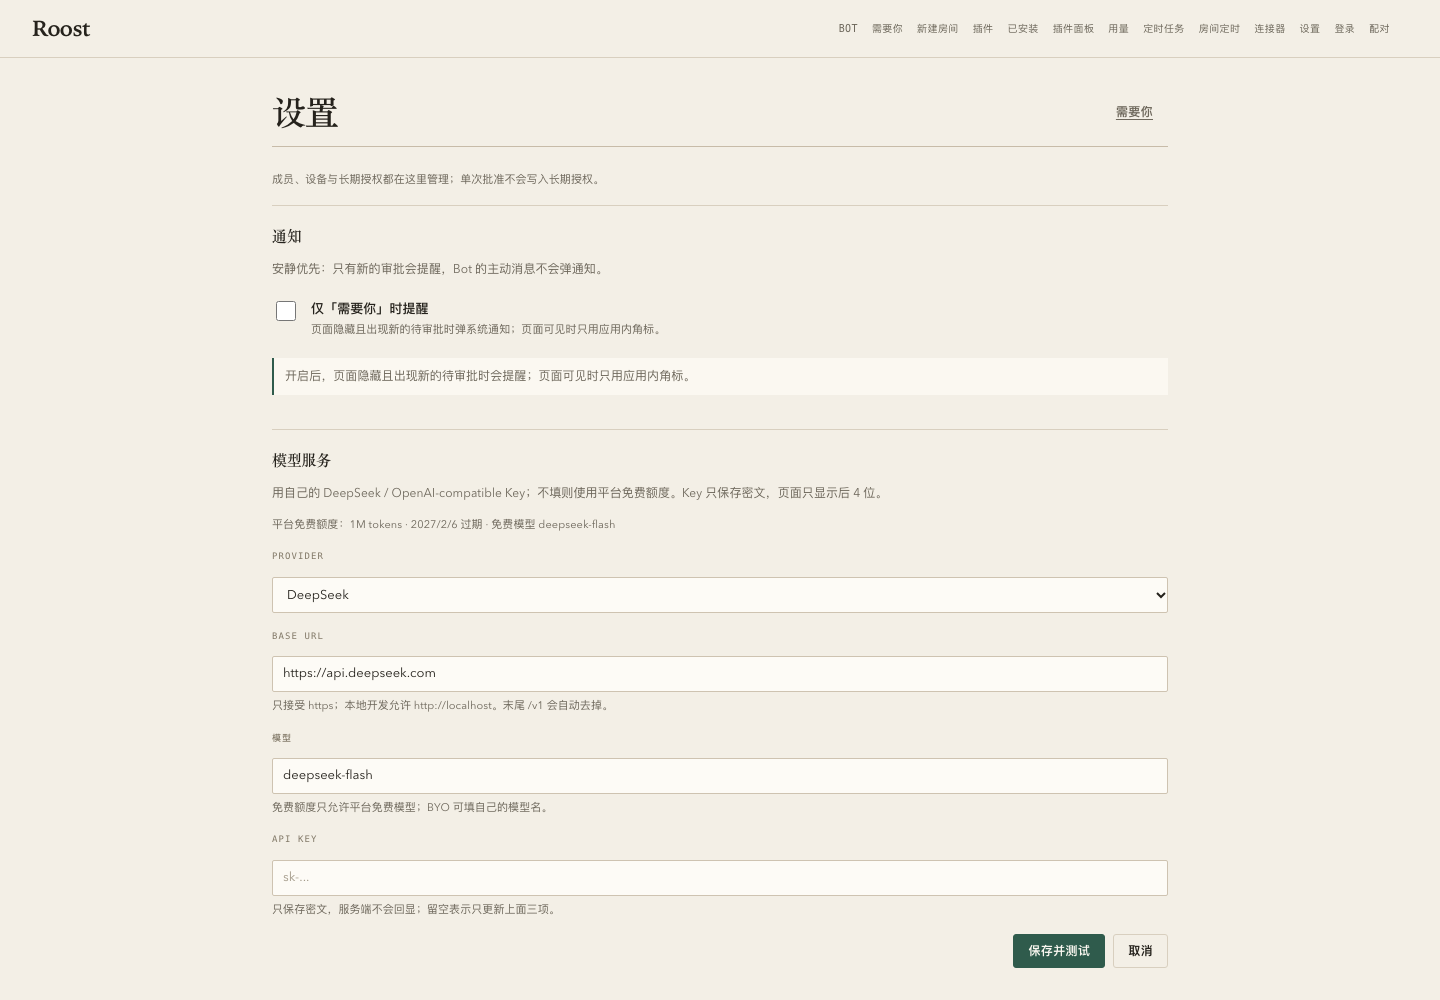
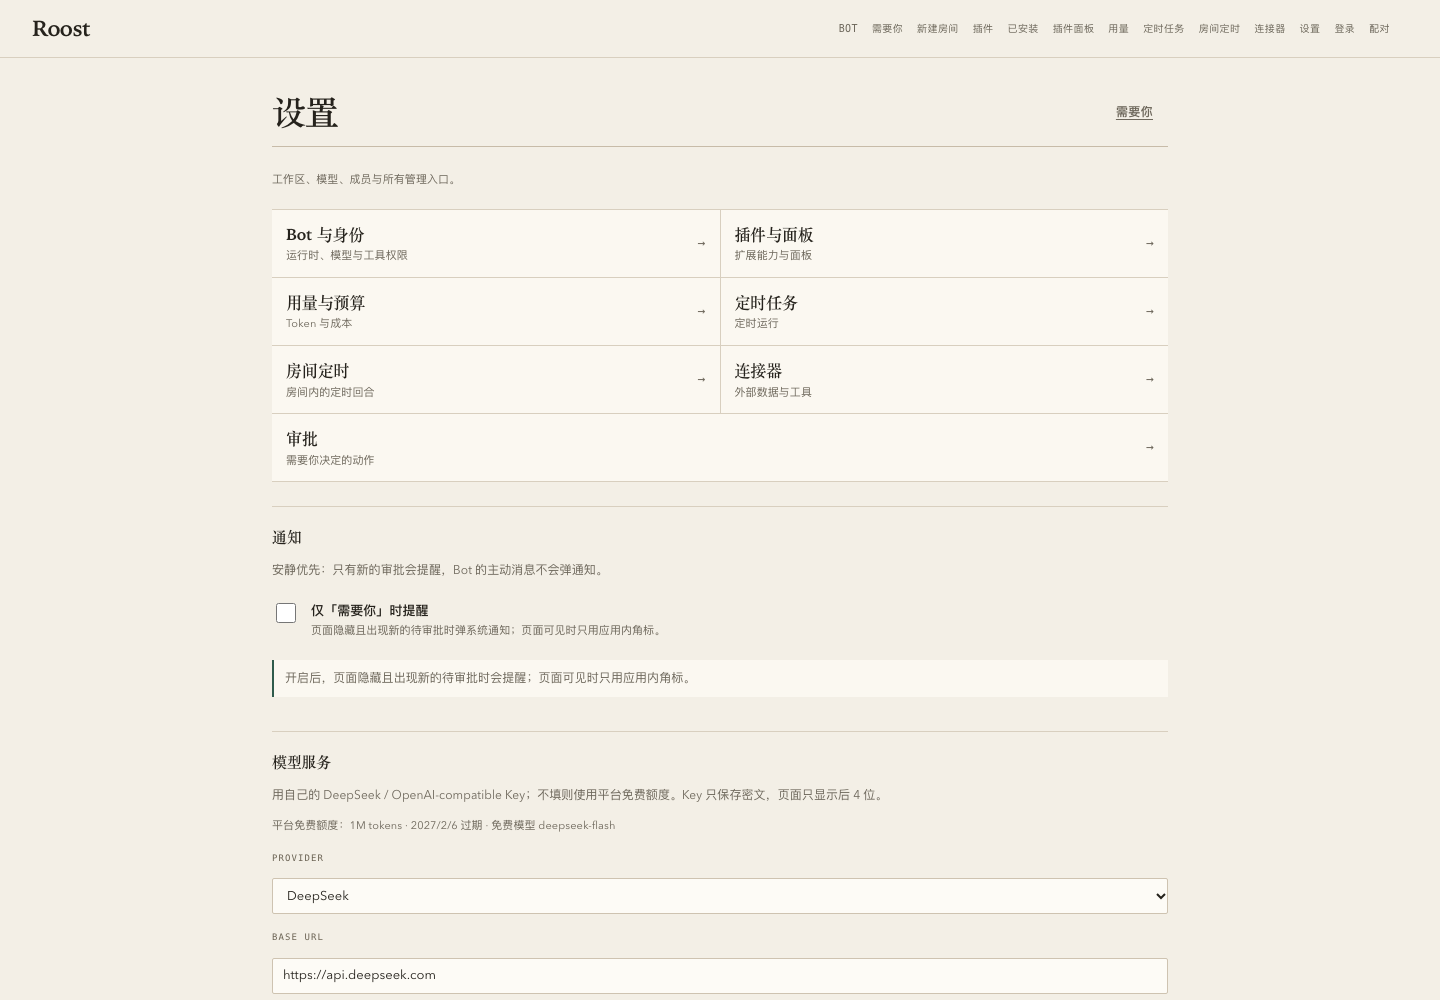
feat(web): move management into settings and simplify the rail

diff --git a/apps/web/styles-desk.css b/apps/web/styles-desk.css
@@ -2313,3 +2313,110 @@ td.num,
   --radius-card: 3px;
   --radius-pill: 999px;
 }
+
+/* ------------------------------------------------------------------ minimal rail + settings hub */
+
+/* Grok-style minimal room rail: conversations and a quiet settings exit. */
+#room-view .drawer-manage {
+  display: none !important;
+}
+
+#room-view .sidebar .needs-link,
+#room-view .sidebar .approvals-link {
+  display: none !important;
+}
+
+#room-view .sidebar-bottom {
+  display: flex;
+  flex-direction: column;
+  gap: 8px;
+  margin-top: auto;
+  padding: 14px 10px 0;
+  border-top: var(--desk-line);
+}
+
+#room-view .sidebar-settings-link {
+  display: flex;
+  align-items: center;
+  justify-content: space-between;
+  min-height: 32px;
+  padding: 0;
+  color: var(--roost-muted);
+  font-family: var(--roost-font-mono);
+  font-size: 10px;
+  letter-spacing: 0.08em;
+  text-decoration: none;
+  text-transform: uppercase;
+}
+
+#room-view .sidebar-settings-link:hover {
+  color: var(--roost-accent);
+}
+
+#room-view .sidebar-bottom .sidebar-foot {
+  margin: 0;
+  padding: 0;
+  border: 0;
+}
+
+.settings-hub {
+  display: grid;
+  grid-template-columns: repeat(2, minmax(0, 1fr));
+  gap: 1px;
+  margin: 4px 0 8px;
+  border-top: var(--desk-line);
+  border-bottom: var(--desk-line);
+  background: var(--roost-rule);
+}
+
+.settings-hub-link {
+  display: grid;
+  grid-template-columns: minmax(0, 1fr) auto;
+  grid-template-rows: auto auto;
+  column-gap: 12px;
+  align-items: baseline;
+  min-height: 64px;
+  padding: 12px 14px;
+  background: var(--roost-surface);
+  color: var(--roost-ink);
+  text-decoration: none;
+}
+
+.settings-hub-link:hover {
+  background: #f7f2e8;
+}
+
+.settings-hub-title {
+  grid-column: 1;
+  grid-row: 1;
+  font-family: var(--roost-font-display);
+  font-size: 16px;
+  font-weight: 600;
+  letter-spacing: -0.01em;
+}
+
+.settings-hub-desc {
+  grid-column: 1;
+  grid-row: 2;
+  color: var(--roost-muted);
+  font-size: 11px;
+}
+
+.settings-hub-arrow {
+  grid-column: 2;
+  grid-row: 1 / span 2;
+  align-self: center;
+  color: var(--roost-muted);
+  font-family: var(--roost-font-mono);
+  font-size: 13px;
+}
+
+@media (max-width: 720px) {
+  .settings-hub {
+    grid-template-columns: minmax(0, 1fr);
+  }
+}
+
+.settings-hub-link:last-child:nth-child(odd) {
+  grid-column: 1 / -1;
+}

diff --git a/apps/web/views/settings.js b/apps/web/views/settings.js
@@ -192,9 +192,30 @@ function notificationSection() {
   })
 }
 
+function settingsHub() {
+  const links = [
+    ['#/bots', 'Bot 与身份', '运行时、模型与工具权限'],
+    ['#/plugins', '插件与面板', '扩展能力与面板'],
+    ['#/usage', '用量与预算', 'Token 与成本'],
+    ['#/schedules', '定时任务', '定时运行'],
+    ['#/routines', '房间定时', '房间内的定时回合'],
+    ['#/connectors', '连接器', '外部数据与工具'],
+    ['#/approvals', '审批', '需要你决定的动作'],
+  ]
+  const nav = el('nav', { class: 'settings-hub', 'aria-label': '管理' })
+  for (const [href, title, description] of links) {
+    const link = el('a', { class: 'settings-hub-link', href })
+    link.append(el('span', { class: 'settings-hub-title', text: title }))
+    link.append(el('span', { class: 'settings-hub-desc', text: description }))
+    link.append(el('span', { class: 'settings-hub-arrow', 'aria-hidden': 'true', text: '→' }))
+    nav.append(link)
+  }
+  return nav
+}
+
 function settingsView(ctx, root, state) {
   const header = ui.pageHeader(PAGE_TITLE, {
-    subtitle: '成员、设备与长期授权都在这里管理；单次批准不会写入长期授权。',
+    subtitle: '工作区、模型、成员与所有管理入口。',
     actions: [ui.linkButton('需要你', '#/approvals', { variant: 'ghost' })],
   })
 
@@ -206,7 +227,7 @@ function settingsView(ctx, root, state) {
   board.append(membersSection(pageCtx, state.members, remount))
   board.append(devicesSection(pageCtx, state.devices, remount))
   for (const node of grantsSections(ctx, root, state)) board.append(node)
-  return el('div', { class: 'stack' }, [header, notificationSection(), modelSection(ctx, state.workspaceId, state.role), board])
+  return el('div', { class: 'stack' }, [header, settingsHub(), notificationSection(), modelSection(ctx, state.workspaceId, state.role), board])
 }
 
 // ---------------------------------------------------------------------------

diff --git a/apps/web/index.html b/apps/web/index.html
@@ -148,21 +148,11 @@
         <h2 class="nav-title" id="rooms-title">房间</h2>
         <ul class="room-list" id="room-list" aria-labelledby="rooms-title"></ul>
         <p class="nav-add"><a href="#/rooms/new">＋ 新建房间</a></p>
-        <p class="nav-add"><a href="#/bots/new">＋ 新建 Bot</a></p>
 
-        <div class="drawer-manage">
-          <h2 class="nav-title">管理</h2>
-          <a class="drawer-link" href="#/bots">Bot 与身份</a>
-          <a class="drawer-link" href="#/plugins">插件与面板</a>
-          <a class="drawer-link" href="#/usage">用量与预算</a>
-          <a class="drawer-link" href="#/schedules">定时任务</a>
-          <a class="drawer-link" href="#/routines">房间定时</a>
-          <a class="drawer-link" href="#/connectors">连接器</a>
-          <a class="drawer-link" href="#/approvals">审批</a>
-          <a class="drawer-link" href="#/settings">设置</a>
+        <div class="sidebar-bottom">
+          <a class="sidebar-settings-link" href="#/settings">设置 <span aria-hidden="true">↗</span></a>
+          <p class="sidebar-foot muted" id="sidebar-foot">未连接控制面</p>
         </div>
-
-        <p class="sidebar-foot muted" id="sidebar-foot">未连接控制面</p>
       </nav>
 
       <main id="room-main" class="main" tabindex="-1">

diff --git a/apps/web/test/shell-theme.test.ts b/apps/web/test/shell-theme.test.ts
@@ -28,7 +28,8 @@ test('外壳：抽屉 + 关闭态不可聚焦 + 管理入口都在设置里', ()
   assert.match(css, /\.room\.sidebar-open \.sidebar/)
   assert.match(css, /transform: translateX\(-104%\)/)
   assert.match(html, /id="sidebar-toggle"/)
-  assert.match(html, /class="drawer-manage"/)
+  assert.doesNotMatch(html, /class="drawer-manage"/)
+  assert.match(html, /class="sidebar-bottom"/)
   assert.match(html, /id="page-back"/)
   assert.match(css, /\.page-nav\s*\{\s*display: none/)
 })

diff --git a/docs/design/ui-refresh.md b/docs/design/ui-refresh.md
@@ -337,3 +337,16 @@ apps/web/test/desk-theme.test.ts
 ![Bot list](docs/assets/ui-desk-bots.png)
 ![Settings](docs/assets/ui-desk-settings.png)
 ![Mobile room](docs/assets/ui-desk-mobile.png)
+
+
+## 10. 极简侧栏（2026-11-08，用户反馈）
+
+用户指出「管理」列表不应常驻房间侧栏，参考 Grok Bot 的极简模式。已调整为：
+
+```text
+侧栏只保留：品牌 / 搜索 / 房间列表 / 新建房间 / 设置
+Bot、插件、用量、定时、连接器、审批全部进入 #/settings 的「管理入口」
+```
+
+设置页顶部新增管理索引（Bot 与身份、插件与面板、用量与预算、定时任务、
+房间定时、连接器、审批），不再把后台导航塞进房间界面。
